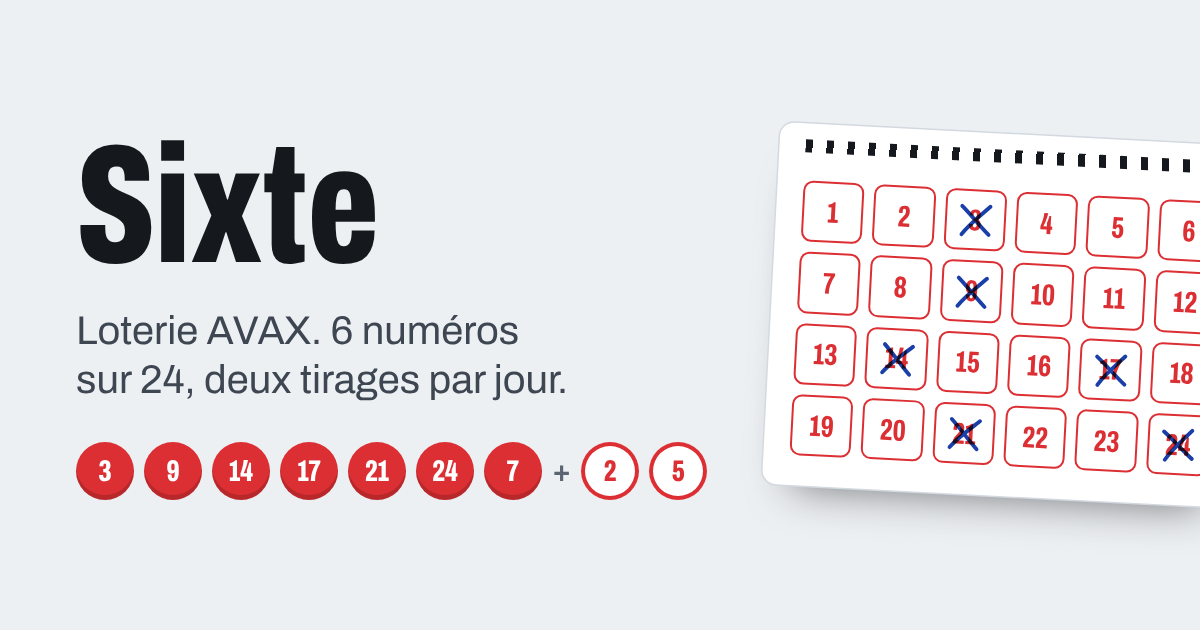
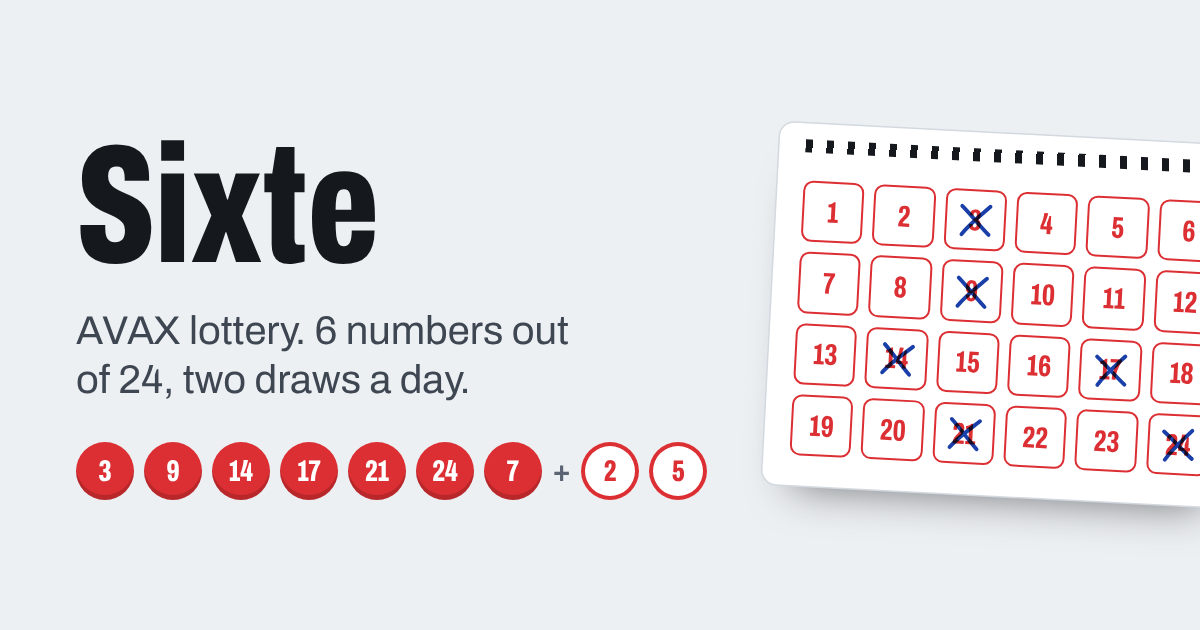
Play page: first-visit steps, English by default
Three steps for someone who has never played: a wallet (Trust Wallet),
some AVAX (own address to copy, link to MoonPay), a line. The page is
in English unless French is chosen with the button.

Changed region(s): [[0.0617, 0.4825, 0.4933, 0.6333]]

diff --git a/docs/play/index.html b/docs/play/index.html
@@ -1,10 +1,10 @@
 <!doctype html>
-<html lang="fr">
+<html lang="en">
 <head>
 <meta charset="utf-8">
 <meta name="viewport" content="width=device-width, initial-scale=1, viewport-fit=cover">
 <title>Sixte</title>
-<meta name="description" content="Sixte : une interface indépendante pour jouer à la loterie AVAX. 6 numéros sur 24, deux tirages par jour.">
+<meta name="description" content="Sixte: an independent interface to play the AVAX lottery. 6 numbers out of 24, two draws a day.">
 <meta name="theme-color" content="#EDF0F3">
 <link rel="icon" href="icon.svg" type="image/svg+xml">
 <link rel="manifest" href="manifest.webmanifest">
@@ -14,7 +14,7 @@
 <meta name="apple-mobile-web-app-title" content="Sixte">
 <meta property="og:type" content="website">
 <meta property="og:title" content="Sixte">
-<meta property="og:description" content="Loterie AVAX : 6 numéros sur 24, deux tirages par jour. Coche ta grille et joue depuis ton wallet.">
+<meta property="og:description" content="AVAX lottery: 6 numbers out of 24, two draws a day. Tick your line and play from your wallet.">
 <meta property="og:url" content="https://benjmain-ops.github.io/vault-p33/play/">
 <meta property="og:image" content="https://benjmain-ops.github.io/vault-p33/play/og.png">
 <meta property="og:image:width" content="1200">
@@ -68,6 +68,8 @@
     padding: 10px 14px; font-weight: 650; line-height: 1.2; min-height: 44px;
   }
   .btn.primary { background: var(--pen); border-color: var(--pen); color: #fff; }
+  a.btn { display: inline-flex; align-items: center; text-decoration: none; color: var(--ink); }
+  a.btn.primary { color: #fff; }
   .btn.primary:disabled { background: #9AA6C7; border-color: #9AA6C7; }
   .btn.quiet { border-color: transparent; padding-inline: 10px; color: var(--muted); }
   .btn.small { min-height: 38px; padding: 7px 12px; font-size: 0.9375rem; }
@@ -76,6 +78,23 @@
   .install { display: flex; justify-content: space-between; align-items: center; gap: 10px 14px; flex-wrap: wrap; background: var(--paper); border-radius: 8px; padding: 12px 14px; box-shadow: 0 0 0 1px var(--rule); }
   .install p { margin: 0; flex: 1 1 220px; }
   .install div { display: flex; gap: 6px; }
+
+  /* first visit: the three steps from nothing to a ticket */
+  .start { background: var(--paper); border-radius: 8px; padding: 14px 14px 12px; margin-top: 10px; box-shadow: 0 0 0 1px var(--rule); }
+  .start-head { display: flex; justify-content: space-between; align-items: center; gap: 10px; }
+  .start-head strong { font-weight: 800; font-stretch: var(--narrow); font-size: 1.25rem; }
+  .firsts { list-style: none; margin: 10px 0 0; padding: 0; counter-reset: step; }
+  .firsts li { counter-increment: step; position: relative; padding: 9px 0 9px 42px; border-top: 1px solid var(--rule); color: var(--muted, inherit); }
+  .firsts li::before { content: counter(step); position: absolute; left: 0; top: 7px; width: 28px; height: 28px; border-radius: 50%; display: grid; place-items: center;
+    border: 1.5px solid var(--rule); font-weight: 800; font-stretch: var(--narrow); line-height: 1; }
+  .firsts li b { font-weight: 750; }
+  .firsts li.done::before { content: "✓"; background: var(--pen); border-color: var(--pen); color: #fff; }
+  .firsts li.now { color: inherit; }
+  .firsts li.now::before { border-color: var(--red); color: var(--red); }
+  .firsts li p { margin: 4px 0 0; }
+  .firsts li .acts { display: flex; flex-wrap: wrap; gap: 6px; margin-top: 9px; }
+  .firsts li small { display: block; margin-top: 8px; font-size: 0.875rem; opacity: 0.8; }
+  .start-note { margin: 8px 0 0; padding-top: 9px; border-top: 1px solid var(--rule); font-size: 0.875rem; opacity: 0.8; }
 
   /* lead: the countdown is the headline */
   .lead { padding: 20px 0 22px; }
@@ -282,6 +301,12 @@
     <div><button class="btn small primary" id="installBtn" type="button"></button><button class="btn small quiet" id="installLater" type="button"></button></div>
   </div>
 
+  <section class="start" id="start" hidden aria-labelledby="startTitle">
+    <div class="start-head"><strong id="startTitle"></strong><button class="btn small quiet" id="startHide" type="button"></button></div>
+    <ol class="firsts" id="startSteps"></ol>
+    <p class="start-note" id="startNote"></p>
+  </section>
+
   <main>
     <section class="lead">
       <h1 id="headline" class="num">&nbsp;</h1>
@@ -407,6 +432,15 @@
       dlgNoWallet: "Aucun wallet ici. Ouvre Sixte dans l'app de ton wallet : tes grilles te suivent. Sur ordinateur, installe l'extension d'un wallet.",
       installText: "Installe Sixte sur ton écran d'accueil : elle s'ouvre comme une app.", installBtn: "Installer", installLater: "Plus tard",
       installIos: "Pour installer Sixte : touche Partager, puis « Sur l'écran d'accueil ».", installOk: "Compris",
+      startTitle: "Première fois ? Trois étapes", startHide: "Je connais",
+      st1: "Un wallet", st1Text: "C'est ton compte : il garde tes AVAX et signe tes tickets. Trust Wallet est gratuit et s'installe en deux minutes.",
+      st1Get: "Installer Trust Wallet", st1Open: "Je l'ai : ouvrir Sixte dedans", st1Connect: "Connecter mon wallet",
+      st2: "Des AVAX", st2Text: (price, need) => `Un ticket coûte ${price} WAVAX, plus quelques centimes de frais de réseau : environ ${need} AVAX suffisent pour un ticket. Sixte convertit tes AVAX en WAVAX au moment de l'achat.`,
+      st2Copy: "Copier mon adresse", st2Buy: "Acheter des AVAX sur MoonPay", st2Check: "C'est fait, vérifier",
+      st2Small: "Sur MoonPay, choisis AVAX sur le réseau Avalanche C-Chain et colle ton adresse. MoonPay vérifie ton identité, fixe son propre minimum d'achat et ses frais, et ne sert pas tous les pays. Trust Wallet a aussi un bouton « Acheter ».",
+      st3: "Ta grille", st3Text: "Coche 6 numéros et 2 compléments, ou touche Flash, puis Acheter.",
+      startNote: "En moyenne, une loterie rend moins qu'elle ne prend. Ne joue que ce que tu peux perdre, si tu es majeur et si c'est légal là où tu vis.",
+      copied: "Adresse copiée.",
       dlgHint: "Réseau : Avalanche C-Chain.",
       eRejected: "Transaction refusée dans le wallet.", eClosed: "Ce tirage n'accepte plus d'achats.", eNumbers: "Une grille est invalide.", eFunds: "Pas assez d'AVAX pour les frais.",
       ePay: "Le paiement en WAVAX a échoué.", eNothing: "Rien à encaisser.", ePaused: "La loterie est en pause.", eOther: "Échec : ",
@@ -450,13 +484,22 @@
       dlgNoWallet: "No wallet here. Open Sixte inside your wallet's app: your lines come along. On a computer, install a wallet extension.",
       installText: "Install Sixte on your home screen: it opens like an app.", installBtn: "Install", installLater: "Later",
       installIos: "To install Sixte: tap Share, then “Add to Home Screen”.", installOk: "Got it",
+      startTitle: "New here? Three steps", startHide: "I know how",
+      st1: "A wallet", st1Text: "It is your account: it holds your AVAX and signs your tickets. Trust Wallet is free and takes two minutes to set up.",
+      st1Get: "Get Trust Wallet", st1Open: "I have it: open Sixte inside", st1Connect: "Connect my wallet",
+      st2: "Some AVAX", st2Text: (price, need) => `A ticket costs ${price} WAVAX, plus a few cents of network fees: about ${need} AVAX is enough for one ticket. Sixte converts your AVAX into WAVAX when you buy.`,
+      st2Copy: "Copy my address", st2Buy: "Buy AVAX on MoonPay", st2Check: "Done, check again",
+      st2Small: "On MoonPay, choose AVAX on the Avalanche C-Chain network and paste your address. MoonPay checks your identity, sets its own minimum purchase and fees, and does not serve every country. Trust Wallet has a Buy button too.",
+      st3: "Your line", st3Text: "Tick 6 numbers and 2 extras, or tap Quick pick, then Buy.",
+      startNote: "On average a lottery pays back less than it takes. Play only what you can afford to lose, if you are an adult and it is legal where you live.",
+      copied: "Address copied.",
       dlgHint: "Network: Avalanche C-Chain.",
       eRejected: "Transaction rejected in the wallet.", eClosed: "This draw no longer takes purchases.", eNumbers: "A line is invalid.", eFunds: "Not enough AVAX for fees.",
       ePay: "The WAVAX payment failed.", eNothing: "Nothing to collect.", ePaused: "The lottery is paused.", eOther: "Failed: ",
       drawnLabel: "Numbers drawn", lastDraw: "Last draw", footVault: "Let the yield of your p33 play for you",
     },
   };
-  let lang = store.get("lang") || ((navigator.language || "fr").toLowerCase().startsWith("fr") ? "fr" : "en");
+  let lang = store.get("lang") === "fr" ? "fr" : "en"; // English unless French was chosen with the button
   let L = TEXT[lang];
 
   // ── chain ──
@@ -897,7 +940,46 @@
     $("tabMine").setAttribute("aria-selected", String(S.tab === "mine")); $("tabResults").setAttribute("aria-selected", String(S.tab === "results"));
     $("mine").hidden = S.tab !== "mine"; $("results").hidden = S.tab !== "results";
   }
-  function renderAll() { renderChrome(); renderInstall(); renderLead(); renderLast(); renderSlip(); renderFacts(); renderMine(); renderResults(); }
+  // ── first visit: wallet, AVAX, line ──
+  const TRUST_GET = "https://trustwallet.com/download", MOONPAY_BUY = "https://www.moonpay.com/buy/avax";
+  const openInTrust = () => { location.href = "https://link.trustwallet.com/open_url?coin_id=10009000&url=" + encodeURIComponent(appUrl()); };
+  function renderStart() {
+    const box = $("start");
+    // enough for one ticket: WAVAX for it and a little AVAX for fees, or AVAX to convert
+    const short = S.price > S.wavax ? S.price - S.wavax : 0n;
+    const funded = S.balances && (short === 0n ? S.avax >= GAS_RESERVE / 4n : S.avax >= short + GAS_RESERVE);
+    const played = S.tickets.length > 0;
+    const step = !S.account ? 1 : !S.balances ? 0 : !funded ? 2 : 3;
+    // gone once someone has played, or said they know; it comes back for a wallet that cannot pay a ticket
+    if (step === 0 || (step === 3 && played) || (store.get("start") === "hide" && step !== 2)) { box.hidden = true; return; }
+    box.hidden = false;
+    $("startTitle").textContent = L.startTitle; $("startHide").textContent = L.startHide; $("startNote").textContent = L.startNote;
+    const list = $("startSteps");
+    list.textContent = "";
+    const el = (tag, text, cls) => { const e = document.createElement(tag); if (text) e.textContent = text; if (cls) e.className = cls; return e; };
+    const button = (text, id, primary, run) => { const b = el("button", text, "btn small" + (primary ? " primary" : "")); b.type = "button"; b.id = id; b.onclick = run; return b; };
+    const link = (text, id, href, primary) => { const a = el("a", text, "btn small" + (primary ? " primary" : "")); a.id = id; a.href = href; a.target = "_blank"; a.rel = "noopener"; return a; };
+    [[L.st1, () => {
+      const acts = el("div", "", "acts");
+      if (window.ethereum || found.size) acts.append(button(L.st1Connect, "startConnect", true, openWalletDialog));
+      else acts.append(link(L.st1Get, "startTrust", TRUST_GET, true), button(L.st1Open, "startOpenTrust", false, openInTrust));
+      return [el("p", L.st1Text), acts];
+    }], [L.st2, () => {
+      const acts = el("div", "", "acts");
+      acts.append(button(L.st2Copy, "startCopy", false, async () => {
+        try { await navigator.clipboard.writeText(S.account); toast(L.copied); } catch (_) { toast(S.account); }
+      }), link(L.st2Buy, "startMoonpay", MOONPAY_BUY, true), button(L.st2Check, "startCheck", false, () => loadAccount().catch(() => {})));
+      return [el("p", L.st2Text(fmt(S.price), fmt(short + GAS_RESERVE, 2))), acts, el("small", L.st2Small)];
+    }], [L.st3, () => [el("p", L.st3Text)]]].forEach(([title, body], i) => {
+      const li = el("li", "", i + 1 < step ? "done" : i + 1 === step ? "now" : "");
+      li.append(el("b", title));
+      if (i + 1 === step) li.append(...body());
+      list.appendChild(li);
+    });
+  }
+  $("startHide").onclick = () => { store.set("start", "hide"); renderStart(); };
+
+  function renderAll() { renderChrome(); renderInstall(); renderStart(); renderLead(); renderLast(); renderSlip(); renderFacts(); renderMine(); renderResults(); }
 
   // ── loading ──
   const soft = (p, fallback) => p.catch(() => fallback);
@@ -944,7 +1026,7 @@
     S.tickets = (await Promise.all(recent.map((id) => lottery.getTicket(id)))).reverse();
     const need = [...new Set(S.tickets.map((t) => t.drawId))].filter((id) => !S.draws.has(id) || !executed(S.draws.get(id)));
     (await Promise.all(need.map((id) => lottery.getDraw(id)))).forEach((d) => S.draws.set(d.id, d));
-    renderStub(); renderFacts(); renderMine();
+    renderStub(); renderFacts(); renderMine(); renderStart();
     try {
       const now = BigInt((await read.getBlock("latest")).timestamp);
       const minDrawId = S.drawId > 60n ? S.drawId - 60n : 0n;
@@ -976,7 +1058,7 @@
     if (!found.size && !window.ethereum) {
       const b = document.createElement("button");
       b.type = "button"; b.className = "btn primary"; b.id = "openInTrust"; b.textContent = L.openTrust;
-      b.onclick = () => { location.href = "https://link.trustwallet.com/open_url?coin_id=10009000&url=" + encodeURIComponent(appUrl()); };
+      b.onclick = openInTrust;
       box.appendChild(b);
       const m = document.createElement("button");
       m.type = "button"; m.className = "btn"; m.id = "openInMetaMask"; m.textContent = L.openMetaMask;

diff --git a/test/e2e-play.js b/test/e2e-play.js
@@ -86,11 +86,14 @@ const TYPES = { ".html": "text/html", ".js": "text/javascript", ".svg": "image/s
       },
     };
   };
+  // the page is in English unless French was chosen: most of this walk is written against the French texts
+  const FRENCH = () => { try { localStorage.setItem("sixte.lang", "fr"); } catch (_) {} };
   const errors = [];
   const open = async (opts) => {
     const page = await browser.newPage(opts);
     page.on("pageerror", (e) => errors.push(e.message));
     await page.addInitScript(INIT, user.address.toLowerCase());
+    await page.addInitScript(FRENCH);
     return page;
   };
   const page = await open({ viewport: { width: 390, height: 844 }, locale: "fr-FR", deviceScaleFactor: 2, ...(VIDEO ? { recordVideo: { dir: VIDEO, size: { width: 390, height: 844 } } } : {}) });
@@ -226,7 +229,47 @@ const TYPES = { ".html": "text/html", ".js": "text/javascript", ".svg": "image/s
   step("anglais, et mise en page large");
 
   // 7. no wallet in the browser: the dialog offers to reopen the page in Trust Wallet
+  // a first visit, in a French-speaking browser: English all the same, and the three steps
+  const first = await browser.newPage({ viewport: { width: 390, height: 844 }, locale: "fr-FR" });
+  first.on("pageerror", (e) => errors.push(e.message));
+  await first.goto(url);
+  await first.waitForFunction(() => /^(Morning|Evening) draw in/.test(document.getElementById("headline").textContent));
+  assert.equal(await first.getAttribute("html", "lang"), "en");
+  assert.match(await first.textContent("#start"), /New here\? Three steps.*A wallet.*Trust Wallet is free.*Some AVAX.*Your line.*only what you can afford to lose/s);
+  assert.equal(await first.getAttribute("#startTrust", "href"), "https://trustwallet.com/download");
+  assert.equal(await first.$$eval("#startSteps li.now", (x) => x.length), 1);
+  await shot(first, "play-5-first-visit", false);
+  let sent = null;
+  await first.route("https://link.trustwallet.com/**", (route) => { sent = route.request().url(); route.abort(); });
+  await first.click("#startOpenTrust").catch(() => {});
+  await first.waitForTimeout(400);
+  assert.match(sent, /^https:\/\/link\.trustwallet\.com\/open_url\?coin_id=10009000&url=/);
+  await first.goto(url);
+  await first.waitForSelector("#startHide");
+  await first.click("#startHide");
+  assert.equal(await first.isHidden("#start"), true);
+  await first.reload();
+  await first.waitForFunction(() => /draw in/.test(document.getElementById("headline").textContent));
+  assert.equal(await first.isHidden("#start"), true, "stays hidden once dismissed");
+  await first.close();
+  // a wallet that cannot pay a ticket: step 2, with its address to copy and the link to buy AVAX
+  const poor = await browser.newPage({ viewport: { width: 390, height: 844 } });
+  poor.on("pageerror", (e) => errors.push(e.message));
+  await poor.addInitScript(INIT, "0x00000000000000000000000000000000000000aa");
+  await poor.goto(url);
+  await poor.waitForFunction(() => /draw in/.test(document.getElementById("headline").textContent));
+  assert.ok(await poor.isVisible("#startConnect"), "a wallet is there: step 1 offers to connect it");
+  await poor.click("#startConnect"); await poor.click("#walletList button");
+  await poor.waitForSelector("#startMoonpay");
+  assert.equal(await poor.getAttribute("#startMoonpay", "href"), "https://www.moonpay.com/buy/avax");
+  assert.match(await poor.textContent("#startSteps li.now"), /Some AVAX.*A ticket costs 0\.1821 WAVAX.*about 0\.2 AVAX is enough.*Copy my address.*Avalanche C-Chain/s);
+  assert.equal(await poor.$$eval("#startSteps li.done", (x) => x.length), 1);
+  await shot(poor, "play-6-needs-avax", false);
+  await poor.close();
+  step("première visite : anglais par défaut, trois étapes, Trust Wallet et MoonPay");
+
   const bare = await browser.newPage({ viewport: { width: 390, height: 844 }, locale: "fr-FR" });
+  await bare.addInitScript(FRENCH);
   await bare.goto(url);
   assert.equal(await bare.isHidden("#install"), true, "no install banner until the browser offers it");
   await bare.evaluate(() => { const e = new Event("beforeinstallprompt"); e.prompt = () => (window.prompted = true); e.userChoice = Promise.resolve({ outcome: "accepted" }); window.dispatchEvent(e); });

diff --git a/scripts/play-assets.js b/scripts/play-assets.js
@@ -36,7 +36,7 @@ const og = `<!doctype html><html><head><style>
 </style></head><body>
   <div class="text">
     <h1>Sixte</h1>
-    <p>Loterie AVAX. 6 numéros sur 24, deux tirages par jour.</p>
+    <p>AVAX lottery. 6 numbers out of 24, two draws a day.</p>
     <div class="balls">${[3, 9, 14, 17, 21, 24, 7].map((n) => `<span class="ball">${n}</span>`).join("")}<span class="plus">+</span><span class="ball extra">2</span><span class="ball extra">5</span></div>
   </div>
   <div class="slip"><div class="grid">${boxes}</div></div>
